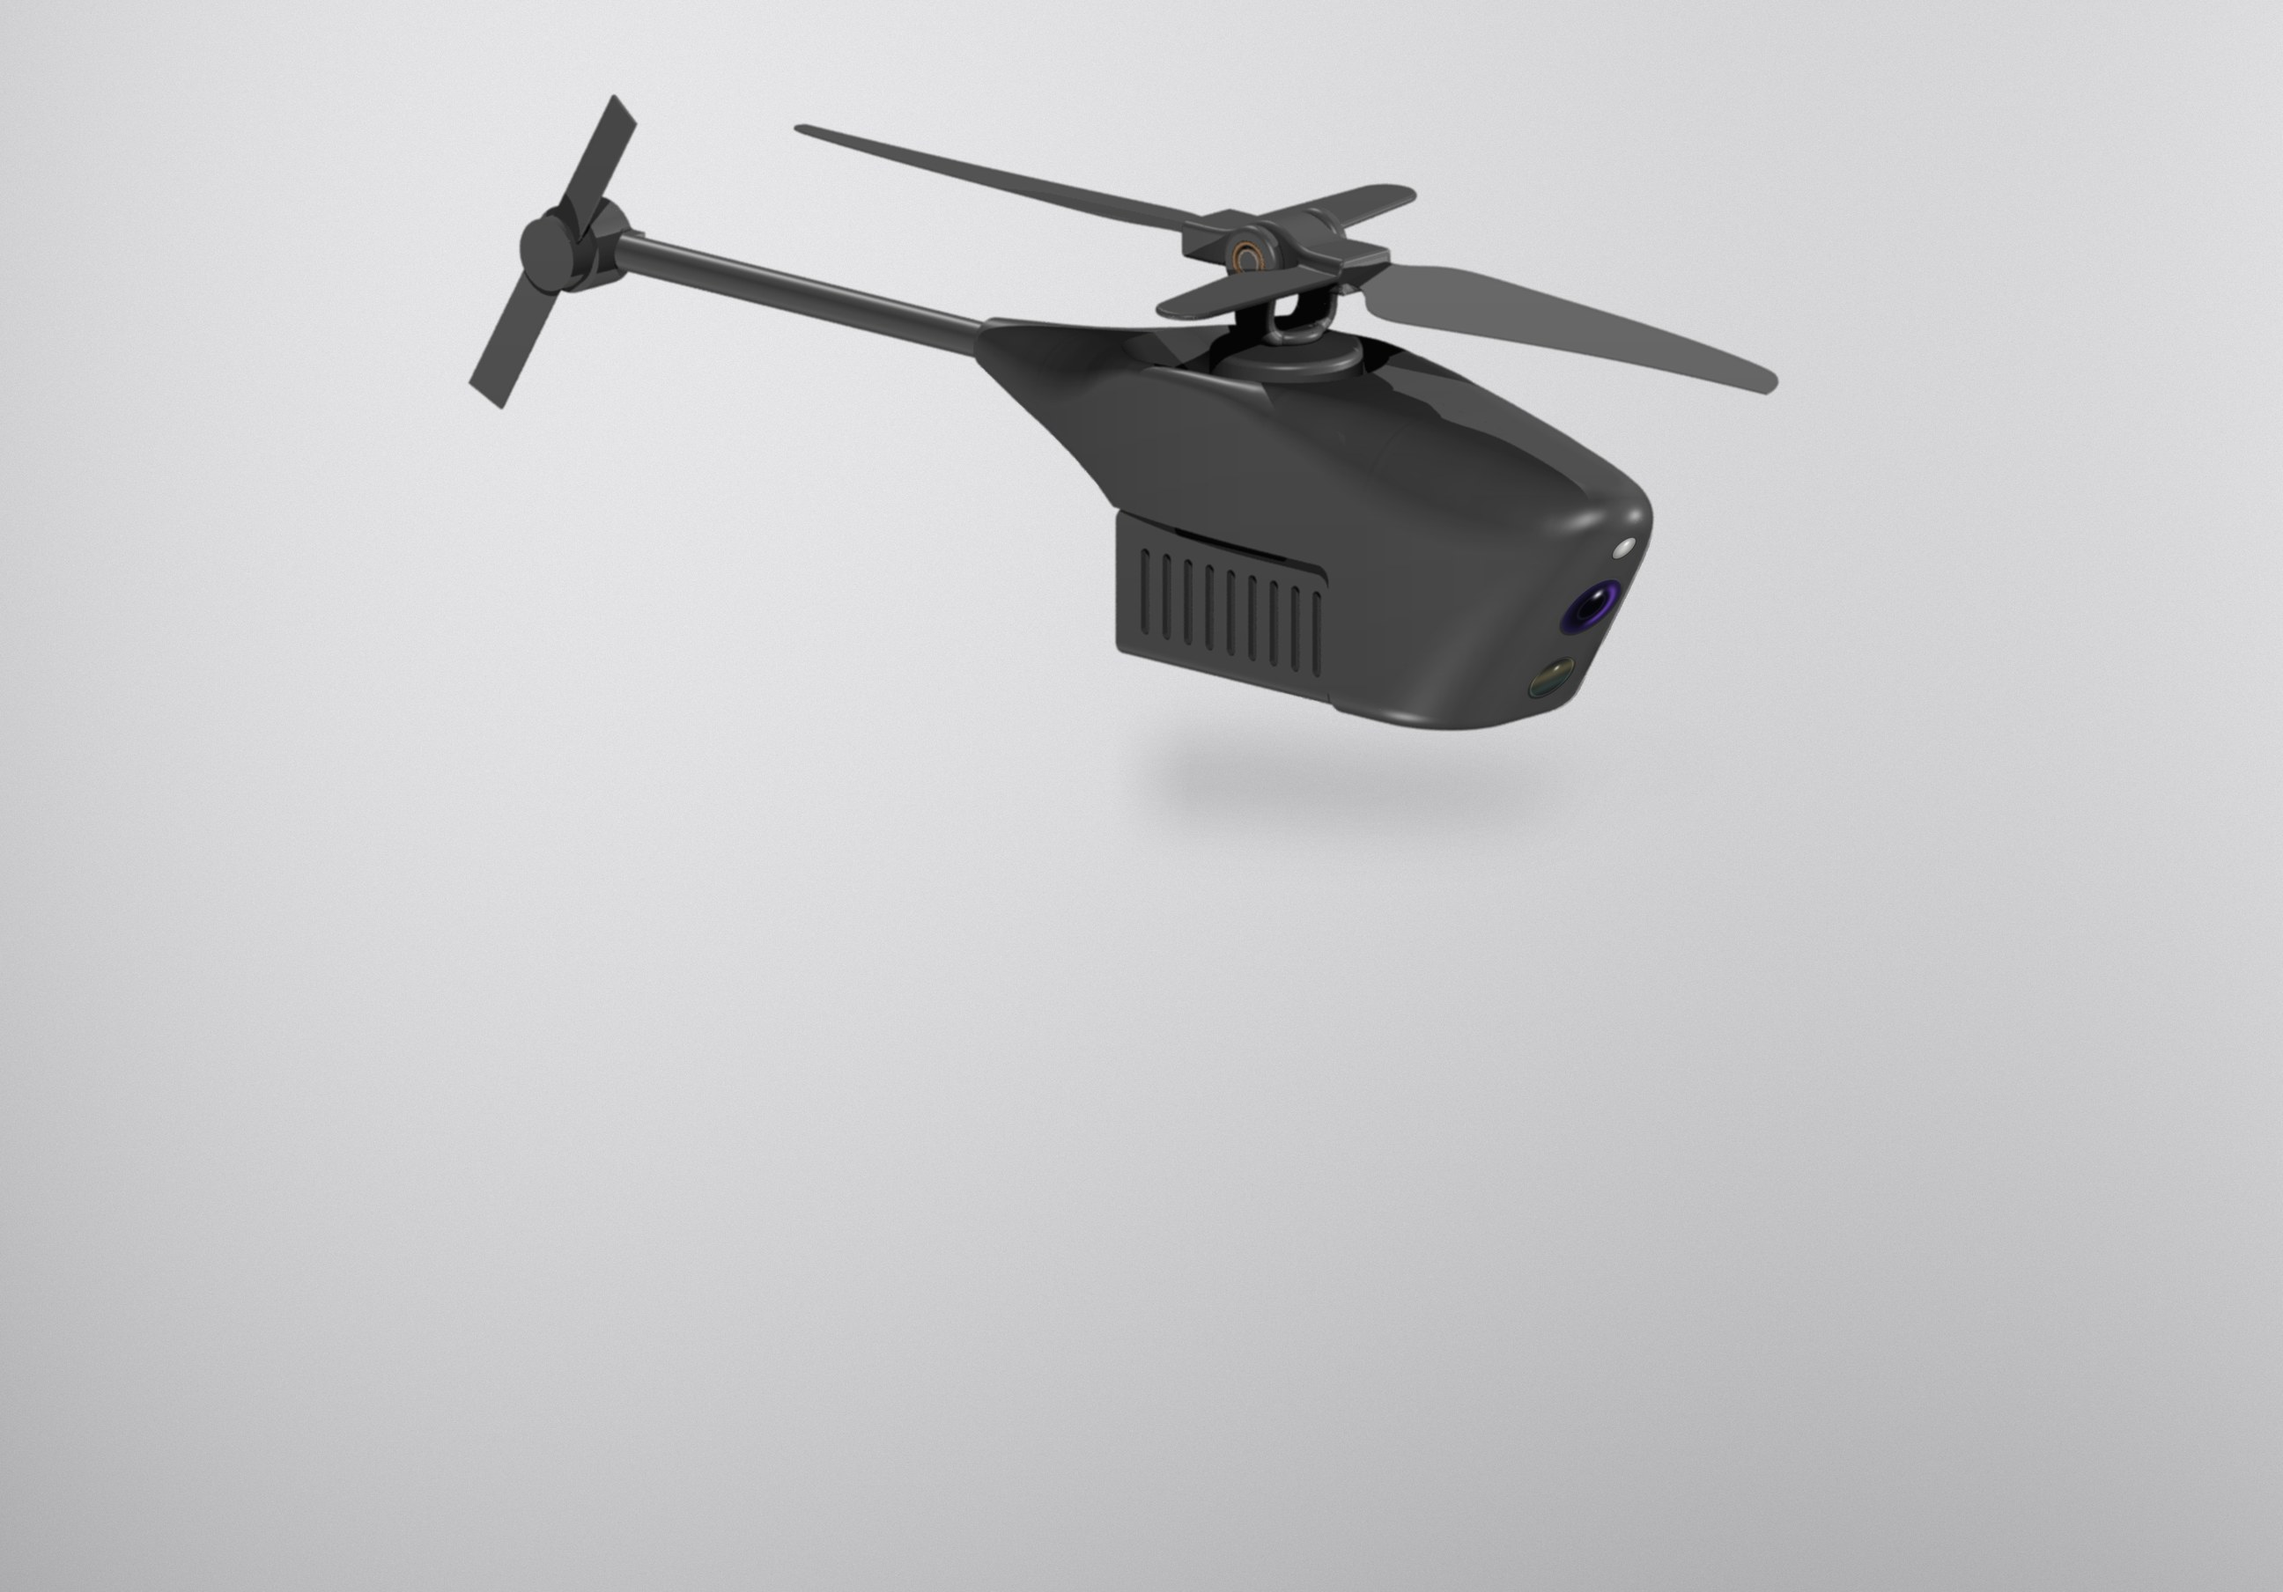
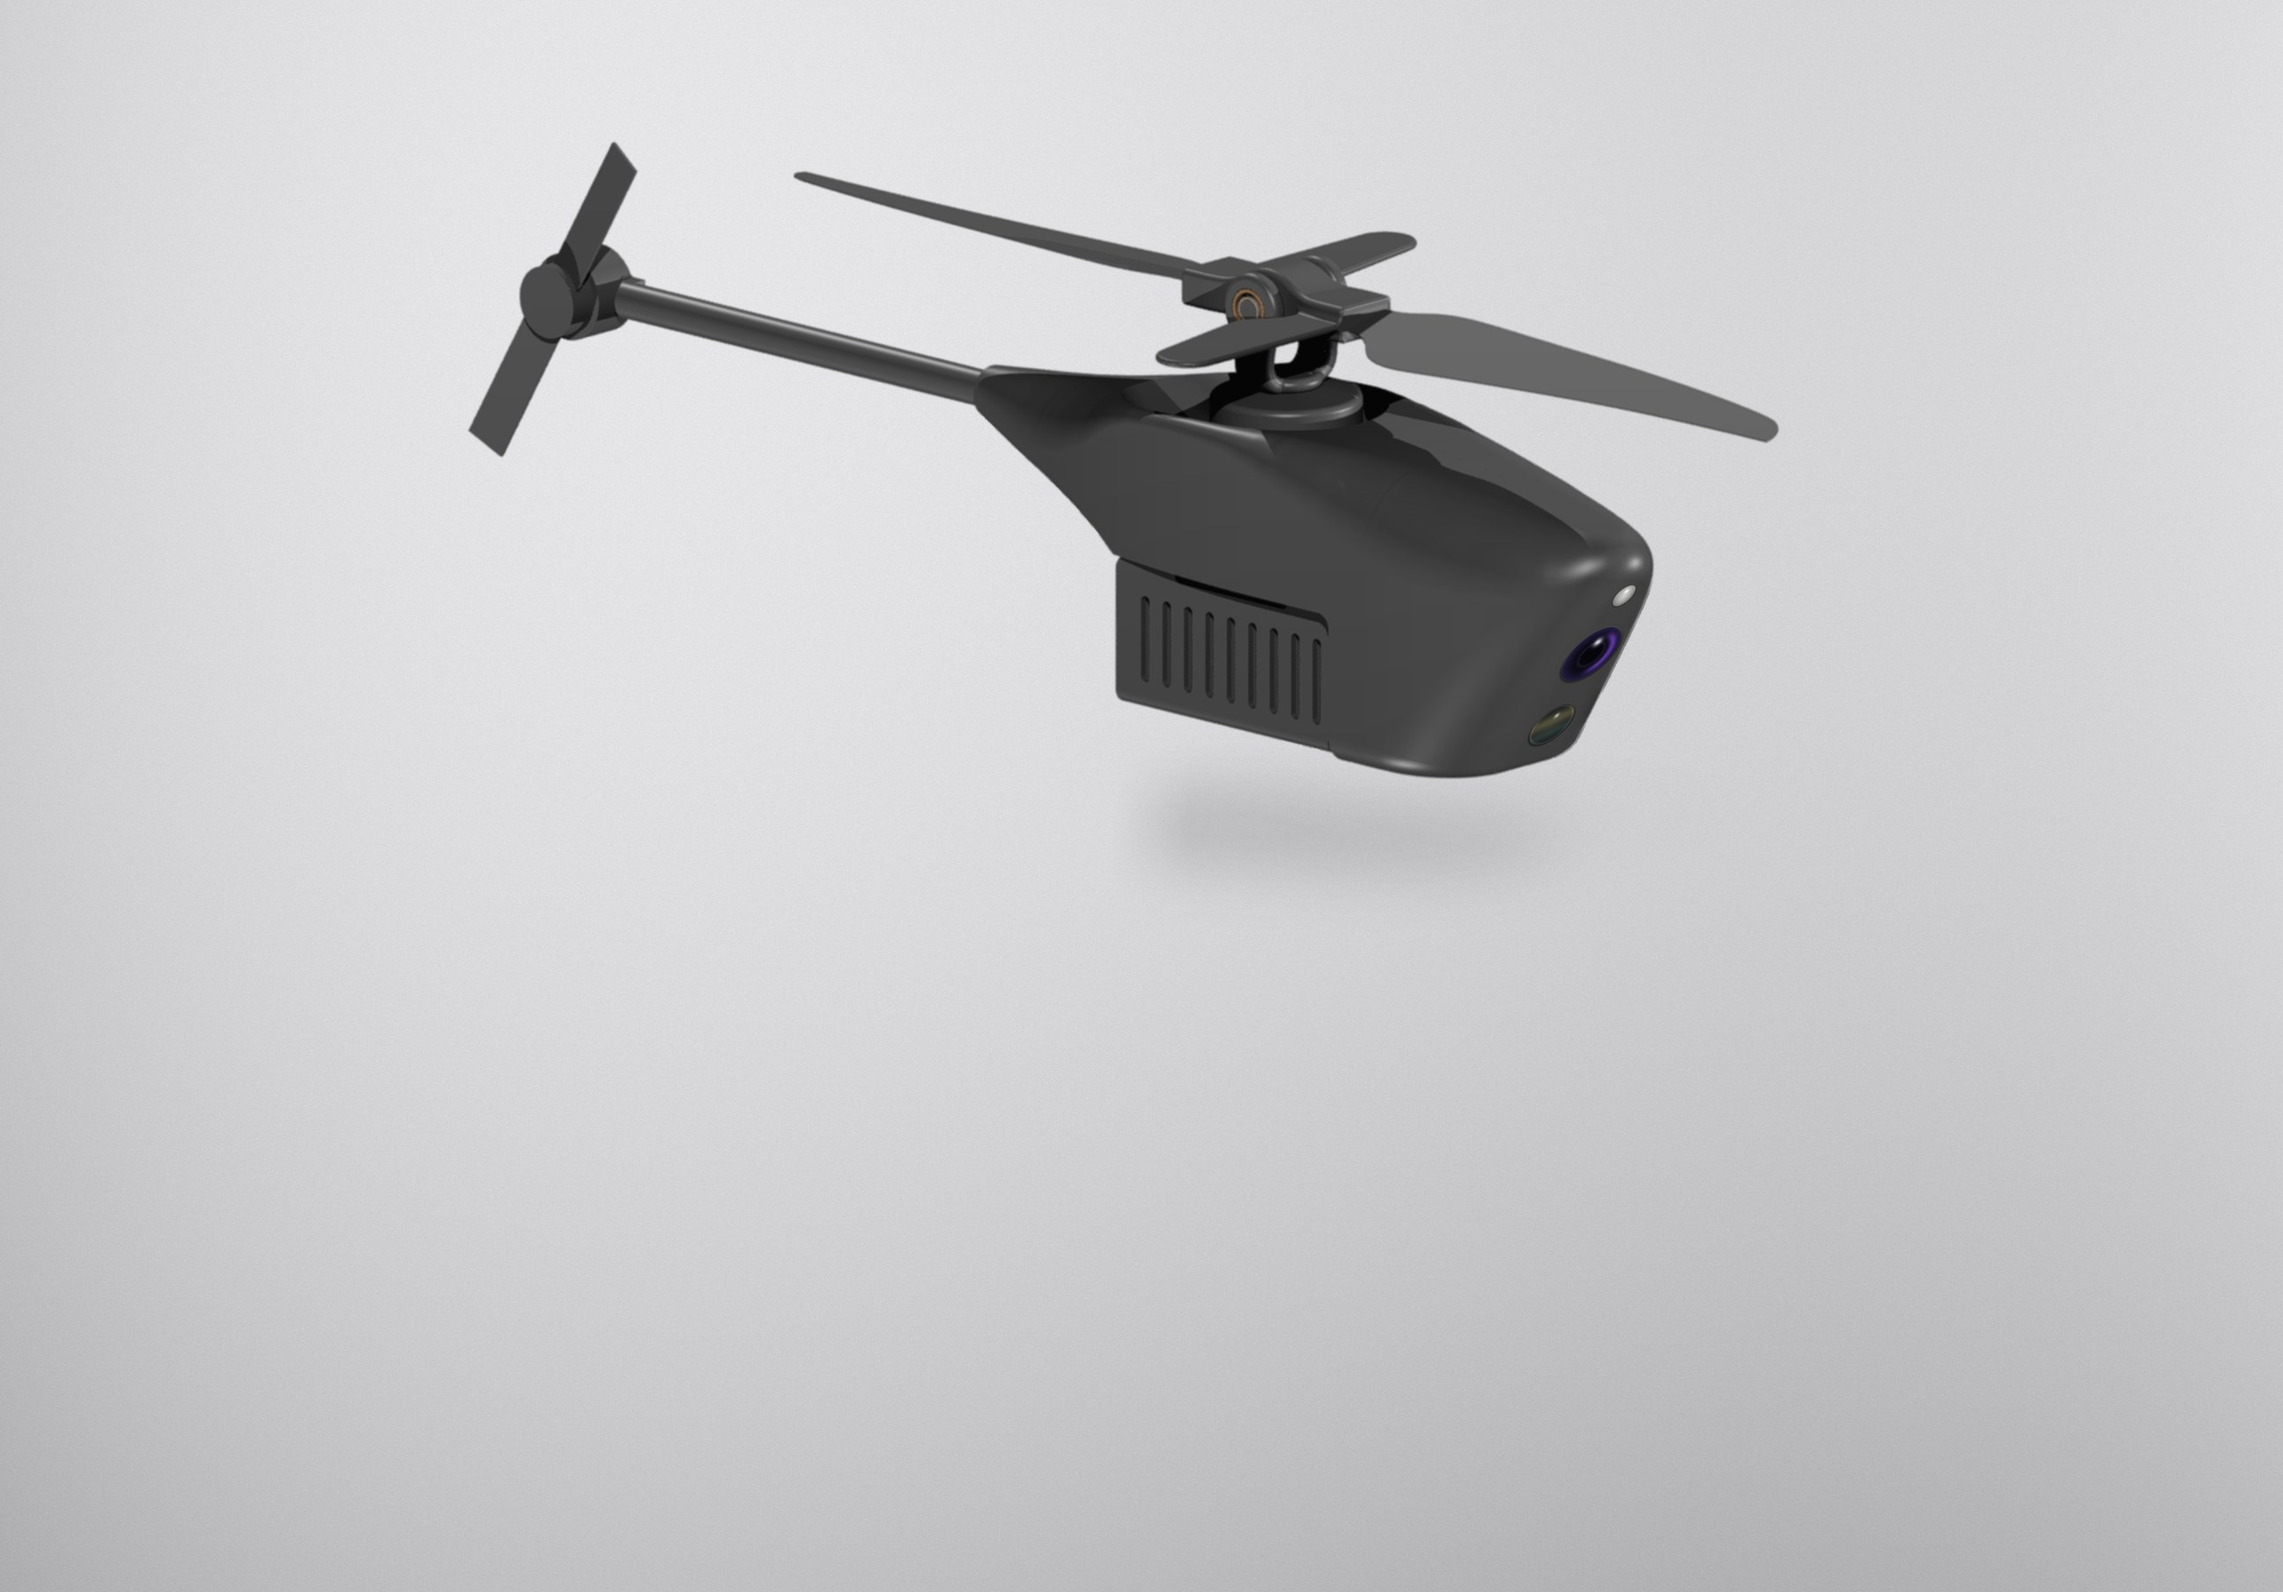
Hero render a little lower; Low-profile fact with a comma
- Large hero (big monitors) 36 base px lower, laptop hero 16 px lower;
  clearance to the text still checked on every measured window
  (tightest 29 px at 1600 x 700)
- Facts: "Small visual footprint, easy to miss, hard to notice"

Changed region(s): [[0.1875, 0.0619, 0.7812, 0.4956]]

diff --git a/src/content.js b/src/content.js
@@ -31,7 +31,7 @@ export const hero = {
 // Four facts the client named as the most important
 export const keyFacts = [
   { value: 'Silent', text: 'Inaudible to people and animals beyond 10 m' },
-  { value: 'Low-profile', text: 'Small visual footprint. Easy to miss, hard to notice' },
+  { value: 'Low-profile', text: 'Small visual footprint, easy to miss, hard to notice' },
   { value: 'Ø 19 cm · 80 g', text: 'Nano UAV class' },
   { value: 'Day + thermal', text: 'Two cameras, one view of the situation' },
 ]
